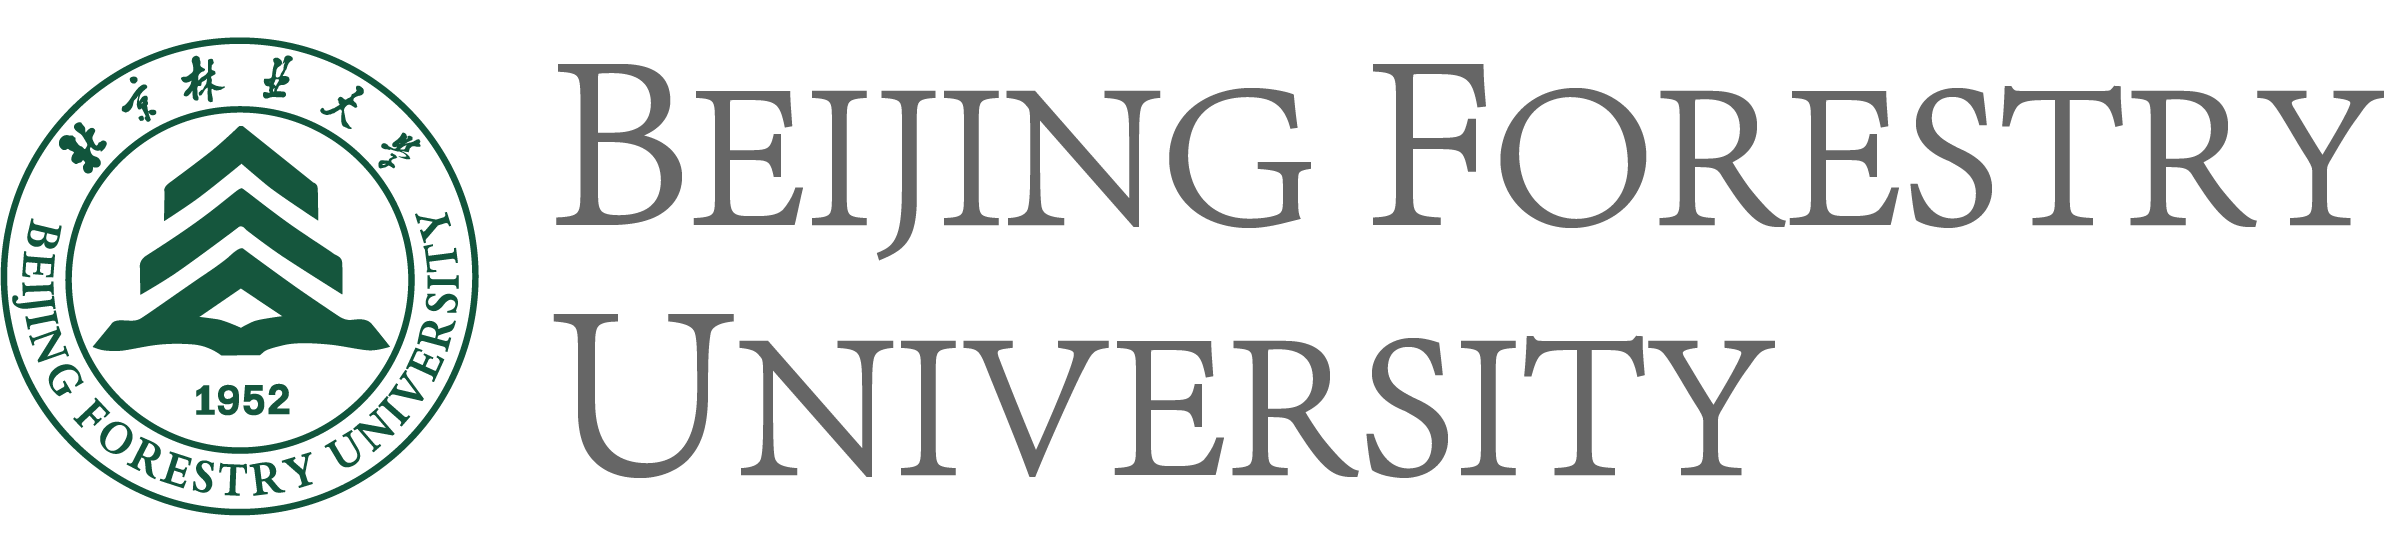
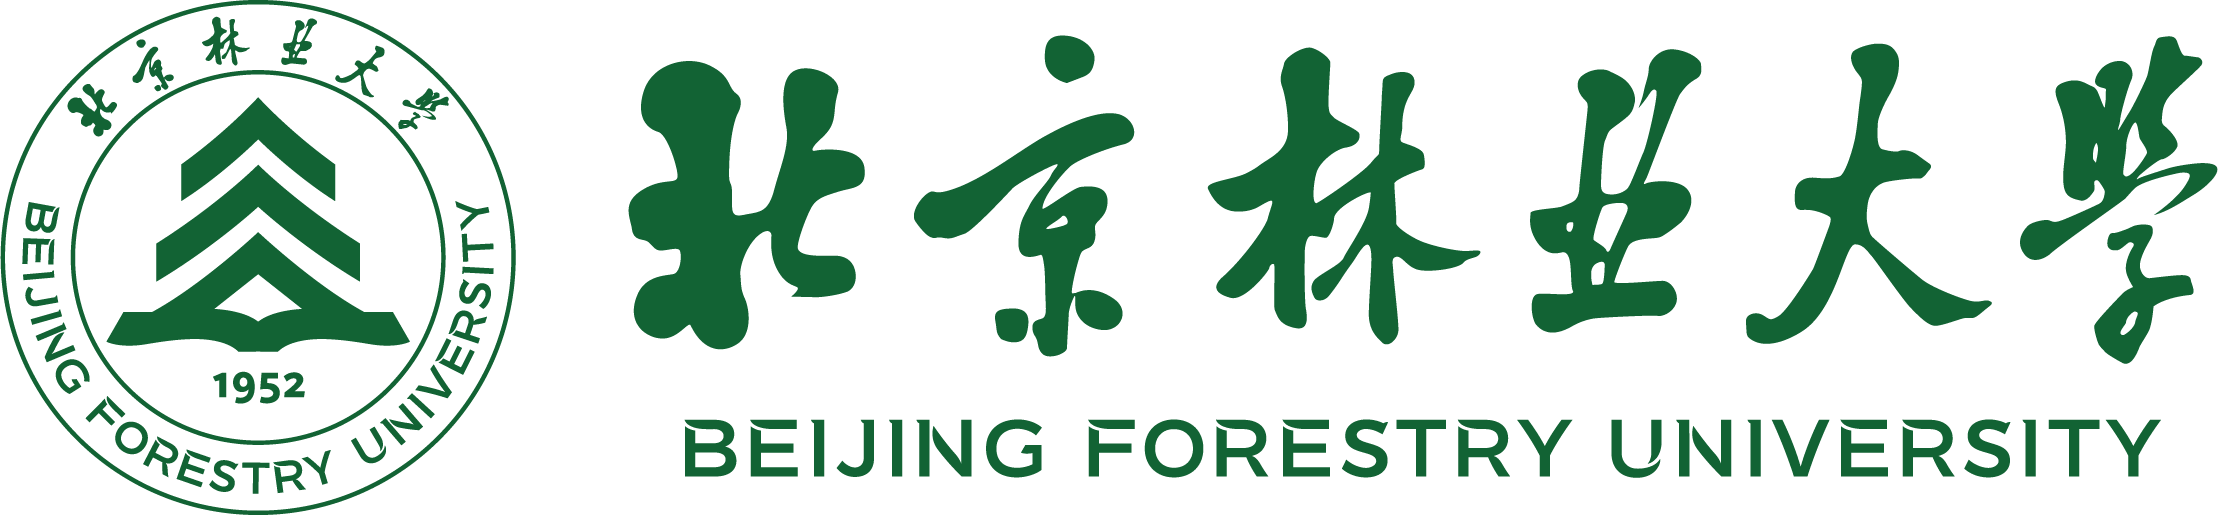
2023 update
New logo

diff --git a/index.html b/index.html
@@ -34,7 +34,7 @@
 <tr class="r8"><td class="c1">Links：<a href="https://scholar.google.com/citations?user=as1e6ooAAAAJ&amp;hl=en">Google Scholar</a>, <a href="https://www.researchgate.net/profile/Mingjie_Wang15">Research Gate</a>
 </td></tr></table>
 <h2>Biography</h2>
-<p>Mingjie Wang is currently a 4th-year Ph.D. student at College of Materials Science and Technology 
+<p>Mingjie Wang is currently a Ph.D. student at College of Materials Science and Technology 
 of Beijing Forestry University, under the supervision of Prof. Jianmin Gao. 
 He was admitted by Beijing Forestry University in 2016 as a M.Eng. student and converted 
 into a Ph.D. student in 2018. Before that, he earned his B.Eng. degree from Northeast Forestry University in 2016, 
@@ -49,7 +49,7 @@ where he worked with Prof. Yingcheng Hu.</p>
 <h2>Education</h2>
 <ul>
 <li><p>Visiting Ph.D. student, <a href="https://www.glass-ceramics.tf.fau.de/new-guest-researcher-mingjie-wang-from-beijing-forestry-university/">University of Erlangen–Nuremberg</a>,
-(Jan 2022-)</p>
+Erlangen, Gremany (Jan 2022-Dec 2022)</p>
 </li>
 <li><p>Ph.D. in Wood Science and Technology, <a href="http://english.bjfu.edu.cn/">Beijing Forestry University</a>,
 2018-now &nbsp; (M.Eng. Leading to Ph.D.)</p>
@@ -63,8 +63,11 @@ where he worked with Prof. Yingcheng Hu.</p>
 </ul>
 <h2>Recent Publications</h2>
 <ul>
-<li><p>Preparation and Capacitance Performance of Carbide Derived Carbon from SiC Wood Ceramic (in Chinese) <br /> W. Zhang, C. Xie, <b>M. Wang</b>,  Y. Chen, J. Gao.<br />
-<i>J. Northeast For. Univ.</i>, in press</p>
+<li><p><a href="https://doi.org/10.1016/j.indcrop.2022.116103">Novel Composite Phase Change Material of High Heat Storage with Photothermal and Self-Cleaning Function</a><br /> (Co-Author) L. He, <b>M. Wang</b>, S. Chen, X. Liu, R. Ren, L. Wang, G. Chen, Y. Chen.<br />
+<i>Ind. Crops. Prod.</i>, 192:116103, <b>2022</b></p>
+</li>
+<li><p><a href="https://kns.cnki.net/KXReader/Detail?invoice=izXGtIHDPnEXJc6qkP2CzFES121uTXaUiUaoE%2Fl7JRJsd13cwvfhIhkgPIMdys0DJSc%2BK0OTnd4p0QaG9luAeizTIq1z635juxZCkBkZzceOFjXQlBfeDXSnE1lLCBWAtB0dAA2q09Oopb4b10ZgFj8PKy9kPQcizvrAgXRXRLg%3D&amp;DBCODE=CJFD&amp;FileName=DBLY202208018&amp;TABLEName=cjfdlast2022&amp;nonce=B8FE567B5BBA4D55A8F0C89C91DA5E56&amp;TIMESTAMP=1689319952362&amp;uid=">Preparation and Capacitance Performance of Carbide Derived Carbon from SiC Wood Ceramic</a> (in Chinese) <br /> W. Zhang, C. Xie, <b>M. Wang</b>,  Y. Chen, J. Gao.<br />
+<i>J. Northeast For. Univ.</i>, 50(08):117-121, <b>2022</b></p>
 </li>
 <li><p><a href="https://doi.org/10.3390/ma11122430">Fabrication of Macroporous Biomorphic SiC from Cellulose Nanofibers Aerogel</a><br /> <b>M. Wang</b>, F. Liu, Y. Chen, J. Gao.<br />
 <i>Materials</i>, 11(12):2430, <b>2018</b></p>
@@ -76,7 +79,13 @@ where he worked with Prof. Yingcheng Hu.</p>
 <br /><i>J. Solid State Chem.</i>, 276:100-3, <b>2019</b></p>
 </li>
 </ul>
-<h2>Research Project Participating</h2>
+<h2>Patent</h2>
+<ul>
+<li><p>A silicon carbide ceramic-derived carbon material possessing a wood multilevel pore structure and a method for its preparation (in Chinese)<br /> Y. Chen, W. Zhang, C. Xie, <b>M. Wang</b>, J. Gao<br /> 
+CN112499612B, Granted</p>
+</li>
+</ul>
+<h2>Research Project Participated</h2>
 <ul>
 <li><p>Preparation of Lignin-based Graphene Reaction-sintered Silicon Carbide and Its Bulletproof Application<br /> NSF of China, Jan 2016-Dec 2019</p>
 </li>
@@ -116,7 +125,7 @@ where he worked with Prof. Yingcheng Hu.</p>
 <td align="left"></td></tr></table>
 <div id="footer">
 <div id="footer-text">
-Information last updated 2022-04-19 &#169 All rights reserved
+Information last updated 2023-07-14 &#169 All rights reserved
 <br> This page contains Google Analytics Tracking ID, please be advised
 </div>
 </div>
